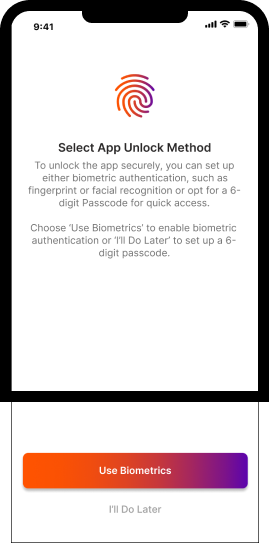
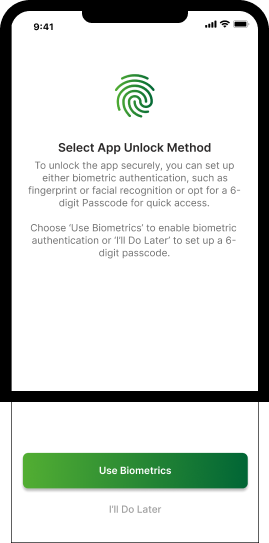
[INJIMOB-2313]: new theme support for country demo

Changed region(s): [[0.0595, 0.825, 0.9219, 0.9134], [0.4164, 0.1179, 0.5651, 0.2357]]

diff --git a/components/ui/themes/DefaultTheme.ts b/components/ui/themes/DefaultTheme.ts
@@ -17,6 +17,9 @@ const Colors = {
   Violet: '#5B03AD',
   BrightOrange: '#FF5300',
   Magenta: '#951F6F',
+  LightGreen: '#52AE32',
+  BrightGreen: '#278834',
+  DarkGreen: '#006535',
   Grey: '#C7C7C7',
   Grey5: '#E0E0E0',
   Grey6: '#F2F2F2',
@@ -48,16 +51,16 @@ const Colors = {
   plainText: '#FFFFFF',
   walletbindingLabel: '#000000',
   LightOrange: '#F7EDF3',
-  GradientColors: ['#FF5300', '#5B03AD'],
-  GradientColorsLight: ['#FF5300'+14, '#5B03AD'+14],
+  GradientColors: ['#52AE32', '#006535'],
+  GradientColorsLight: ['#52AE32'+14, '#006535'+14],
   DisabledColors: ['#C7C7C7', '#C7C7C7'],
   TimeoutHintBoxColor: '#FFF7E5',
   TimeoutHintBoxBorder: '#FFF2D6',
   TimeoutHintText: '#8B6105',
   resendCodeTimer: '#555555',
   uncheckedIcon: '#DBDBDB',
-  startColor: '#ff5300',
-  endColor: '#5b03ad',
+  startColor: '#52AE32',
+  endColor: '#006535',
   stroke: '#ee8123',
   iconBg: '#ffa85a',
   warningLogoBg: '#FFF7E5',
@@ -72,28 +75,29 @@ export type ElevationLevel = 0 | 1 | 2 | 3 | 4 | 5 | 6;
 
 export const DefaultTheme = {
   Colors: {
+    KebabIconBackgroundcolor: Colors.LightGreen,
     ProfileIconColor: Colors.DarkGray,
     DetailedViewBackground: Colors.Gray97,
-    TabItemText: Colors.Orange,
+    TabItemText: Colors.BrightOrange,
     Details: Colors.Black,
     DetailsLabel: Colors.Gray40,
     LoadingDetailsLabel: Colors.Gray40,
-    AddIdBtnBg: Colors.Orange,
-    AddIdBtnTxt: Colors.Orange,
+    AddIdBtnBg: Colors.DarkGreen,
+    AddIdBtnTxt: Colors.DarkGreen,
     DownloadIdBtnTxt: Colors.White,
-    Loading: Colors.Orange,
+    Loading: Colors.Green,
     Cursor: Colors.Orange,
     noUinText: Colors.Orange,
     IconBg: Colors.Orange,
     popUp: Colors.Green,
-    Icon: Colors.Orange,
+    Icon: Colors.DarkGreen,
     GrayIcon: Colors.Gray50,
     helpText: Colors.Gray44,
     borderBottomColor: Colors.Grey6,
     whiteBackgroundColor: Colors.White,
     lightGreyBackgroundColor: Colors.LightGrey,
     aboutVersion: Colors.Gray40,
-    switchHead: Colors.Orange,
+    switchHead: Colors.DarkGreen,
     switchTrackTrue: Colors.LightOrange,
     switchTrackFalse: Colors.Grey,
     overlayBackgroundColor: Colors.White,
@@ -110,7 +114,7 @@ export const DefaultTheme = {
     whiteText: Colors.White,
     flipCameraIcon: Colors.Black,
     RetrieveIdLabel: Colors.ShadeOfGrey,
-    inputSelection: Colors.Orange,
+    inputSelection: Colors.DarkGreen,
     checkCircleIcon: Colors.White,
     OnboardingCircleIcon: Colors.White,
     OnboardingCloseIcon: Colors.White,
@@ -118,7 +122,7 @@ export const DefaultTheme = {
     DefaultToggle: Colors.LightOrange,
     GrayText: Colors.GrayText,
     errorGrayText: Colors.mediumDarkGrey,
-    gradientBtn: ['#FF5300', '#5B03AD'],
+    gradientBtn: ['#52AE32', '#006535'],
     dotColor: Colors.dorColor,
     plainText: Colors.plainText,
     IconBackground: Colors.LightOrange,
@@ -307,14 +311,14 @@ export const DefaultTheme = {
       borderRadius: 15,
       margin: 5,
       borderWidth: 3,
-      borderColor: Colors.Orange,
+      borderColor: Colors.DarkGreen,
       overflow: 'hidden',
     },
     selectedVc: {
       borderRadius: 10,
       margin: 5,
       borderWidth: 2,
-      borderColor: Colors.Orange,
+      borderColor: Colors.DarkGreen,
     },
     labelPartContainer: {
       marginLeft: 16,
@@ -411,8 +415,8 @@ export const DefaultTheme = {
       height: 71,
     },
     injiLogo: {
-      width: 191.58,
-      height: 28,
+      width: Dimensions.get('screen').width / 3,
+      height: Dimensions.get('screen').height / 20,
     },
     logo: {
       height: 35,
@@ -642,7 +646,7 @@ export const DefaultTheme = {
       borderRadius: 200,
       height: 70,
       width: 70,
-      backgroundColor: Colors.Orange,
+      backgroundColor: Colors.BrightGreen,
       justifyContent: 'center',
       position: 'absolute',
     },
@@ -847,7 +851,7 @@ export const DefaultTheme = {
     },
     onEnteringPin: {
       borderBottomWidth: 3,
-      borderColor: Colors.Orange,
+      borderColor: Colors.BrightGreen,
       color: Colors.Black,
       flex: 1,
       fontFamily: 'Inter_700Bold',
@@ -898,7 +902,7 @@ export const DefaultTheme = {
       fontFamily: 'Inter_600SemiBold',
     },
     urlLinkText: {
-      color: Colors.Orange,
+      color: Colors.DarkGreen,
       fontFamily: 'Inter_600SemiBold',
     },
     aboutDetails: {
@@ -1018,7 +1022,7 @@ export const DefaultTheme = {
     searchBarContainer: {
       alignItems: 'center',
       borderBottomWidth: 1,
-      borderBottomColor: Colors.Orange,
+      borderBottomColor: Colors.BrightGreen,
     },
     vcSearchBarContainer: {
       alignItems: 'center',
@@ -1050,14 +1054,14 @@ export const DefaultTheme = {
       flex: 1,
     },
     solid: {
-      backgroundColor: Colors.Orange,
+      backgroundColor: Colors.BrightGreen,
     },
     clear: {
       backgroundColor: Colors.Transparent,
     },
     outline: {
       backgroundColor: Colors.Transparent,
-      borderColor: Colors.Orange,
+      borderColor: Colors.BrightGreen,
     },
     disabledOutlineButton: {
       backgroundColor: Colors.Transparent,
@@ -1093,7 +1097,7 @@ export const DefaultTheme = {
     },
     radius: {
       borderRadius: 10,
-      backgroundColor: Colors.Orange,
+      backgroundColor: Colors.DarkGreen,
     },
     Large: {
       width: Dimensions.get('window').width * 0.9,
@@ -1646,6 +1650,16 @@ export const DefaultTheme = {
     tabBarItemStyle: {
       height: 83,
       padding: 11,
+    },
+    bottomTabLabelText: {
+      fontSize: 11,
+      fontFamily: 'Inter_700Bold',
+      color: Colors.DarkGreen,
+    },
+    unfocusedbottomTabLabelText: {
+      fontSize: 11,
+      fontFamily: 'Inter_700Bold',
+      color: Colors.DarkGray,
     },
   }),
 

diff --git a/screens/Settings/AboutInji.tsx b/screens/Settings/AboutInji.tsx
@@ -6,6 +6,7 @@ import {
   Pressable,
   TouchableOpacity,
   I18nManager,
+  View
 } from 'react-native';
 import {Modal} from '../../components/ui/Modal';
 import {Column, Row, Text} from '../../components/ui';
@@ -54,38 +55,43 @@ export const AboutInji: React.FC<AboutInjiProps> = ({appId}) => {
       <Modal
         testID="aboutInji"
         isVisible={showAboutInji}
-        headerTitle={t('header')}
+        headerTitle={"About Inji Wallet"}
         headerElevation={2}
         arrowLeft={true}
         onDismiss={() => {
           setShowAboutInji(!showAboutInji);
         }}>
         <BannerNotificationContainer />
-        <LinearGradient colors={Theme.Colors.GradientColorsLight} start={Theme.LinearGradientDirection.start} end={Theme.LinearGradientDirection.end}>
-        <Row
-          testID="appID"
-          crossAlign="flex-start"
-          style={Theme.Styles.primaryRow}>
-          <Row>
-            <Text
-              weight="semibold"
-              style={{
-                maxWidth: 110,
-                paddingTop:
-                  i18next.language == 'kn' || i18next.language == 'hi' ? 5 : 0,
-              }}>
-              {t('appID')}
-            </Text>
-            <Text
-              weight="semibold"
-              style={{
-                paddingTop: i18next.language == 'hi' ? 2 : 0,
-              }}>
-              {I18nManager.isRTL ? appId : ' : ' + appId}
-            </Text>
+        <LinearGradient
+          colors={Theme.Colors.GradientColorsLight}
+          start={Theme.LinearGradientDirection.start}
+          end={Theme.LinearGradientDirection.end}>
+          <Row
+            testID="appID"
+            crossAlign="flex-start"
+            style={Theme.Styles.primaryRow}>
+            <Row>
+              <Text
+                weight="semibold"
+                style={{
+                  maxWidth: 110,
+                  paddingTop:
+                    i18next.language == 'kn' || i18next.language == 'hi'
+                      ? 5
+                      : 0,
+                }}>
+                {t('appID')}
+              </Text>
+              <Text
+                weight="semibold"
+                style={{
+                  paddingTop: i18next.language == 'hi' ? 2 : 0,
+                }}>
+                {I18nManager.isRTL ? appId : ' : ' + appId}
+              </Text>
+            </Row>
+            <CopyButton content={appId} />
           </Row>
-          <CopyButton content={appId} />
-        </Row>
         </LinearGradient>
         <Column padding="12" align="space-between">
           <Column>
@@ -131,7 +137,7 @@ export const AboutInji: React.FC<AboutInjiProps> = ({appId}) => {
             align="space-between"
             crossAlign="center"
             style={Theme.Styles.versionContainer}>
-            <Row>
+            <Row style={{paddingBottom: 15}}>
               <Text
                 testID="tuvaliVersion"
                 weight="semibold"
@@ -146,6 +152,19 @@ export const AboutInji: React.FC<AboutInjiProps> = ({appId}) => {
                 {__InjiVersion.getValue()}
               </Text>
             </Row>
+            <View
+              style={{
+                backgroundColor: 'lightgrey',
+                width: '90%',
+                height: 1,
+              }}
+            />
+            <Text
+              weight="semibold"
+              style={{paddingTop: 15, maxWidth: 250}}
+              color="black">
+              Powered by Inji, A MOSIP Product
+            </Text>
 
             {__TuvaliVersion.getpackageVersion() != 'unknown' && (
               <Text

diff --git a/components/ui/themes/PurpleTheme.ts b/components/ui/themes/PurpleTheme.ts
@@ -73,6 +73,7 @@ export type ElevationLevel = 0 | 1 | 2 | 3 | 4 | 5 | 6;
 
 export const PurpleTheme = {
   Colors: {
+    KebabIconBackgroundcolor: Colors.Purple,
     ProfileIconColor: Colors.DarkGray,
     DetailedViewBackground: Colors.Gray97,
     TabItemText: Colors.Purple,
@@ -251,7 +252,6 @@ export const PurpleTheme = {
       width: Dimensions.get('window').width * 0.12,
       height: Dimensions.get('window').height * 0.045,
       borderRadius: 6,
-      backgroundColor: Colors.LightPurple,
     },
     homeScreenContainer: {
       alignItems: 'center',
@@ -1651,6 +1651,16 @@ export const PurpleTheme = {
     tabBarItemStyle: {
       height: 83,
       padding: 11,
+    },
+    bottomTabLabelText: {
+      fontSize: 11,
+      fontFamily: 'Inter_700Bold',
+      color: Colors.Purple,
+    },
+    unfocusedbottomTabLabelText: {
+      fontSize: 11,
+      fontFamily: 'Inter_700Bold',
+      color: Colors.DarkGray,
     },
   }),
 

diff --git a/screens/MainLayout.tsx b/screens/MainLayout.tsx
@@ -82,6 +82,11 @@ export const MainLayout: React.FC = () => {
                 </Column>
               ),
               tabBarAccessibilityLabel: isIOS() ? t(route.name) : route.name,
+              tabBarLabel: ({ focused }) => (
+                  <Text style={focused ? Theme.BottomTabBarStyle.bottomTabLabelText : Theme.BottomTabBarStyle.unfocusedbottomTabLabelText}>
+                  {t(route.name)}
+                </Text>
+              ),
               tabBarTestID: route.name,
             }}
           />

diff --git a/screens/SplashScreen.tsx b/screens/SplashScreen.tsx
@@ -34,8 +34,8 @@ export const SplashScreen: React.FC<RootRouteProps> = props => {
         width: Dimensions.get('screen').width,
       }}>
       <Image
-        resizeMode="stretch"
-        style={{width: 400, height: 450}}
+        resizeMode="contain"
+        style={{width: Dimensions.get('screen').width -180, height: Dimensions.get('screen').height - 120}}
         source={imageResource}
       />
     </Column>

diff --git a/shared/constants.ts b/shared/constants.ts
@@ -136,7 +136,7 @@ export const DEFAULT_ECL = 'L';
 export const DEFAULT_QR_HEADER = 'INJIQUICKSHARE://';
 export const MAX_QR_DATA_LENGTH = 4296;
 
-export const INTRO_SLIDER_LOGO_MARGIN = Dimensions.get('screen').width * 0.45;
+export const INTRO_SLIDER_LOGO_MARGIN = Dimensions.get('screen').width * 0.41;
 
 export const COPILOT_PRE_FINAL_STEP: number = 5;
 export const COPILOT_FINAL_STEP: number = 6;

diff --git a/screens/HomeScreenLayout.tsx b/screens/HomeScreenLayout.tsx
@@ -27,10 +27,6 @@ export const HomeScreenLayout: React.FC<RootRouteProps> = props => {
       props.navigation.setOptions({
         tabBarShowLabel: true,
         tabBarActiveTintColor: Theme.Colors.IconBg,
-        tabBarLabelStyle: {
-          fontSize: 12,
-          fontFamily: 'Inter_600SemiBold',
-        },
         tabBarStyle: {
           height: 75,
           paddingHorizontal: 10,
